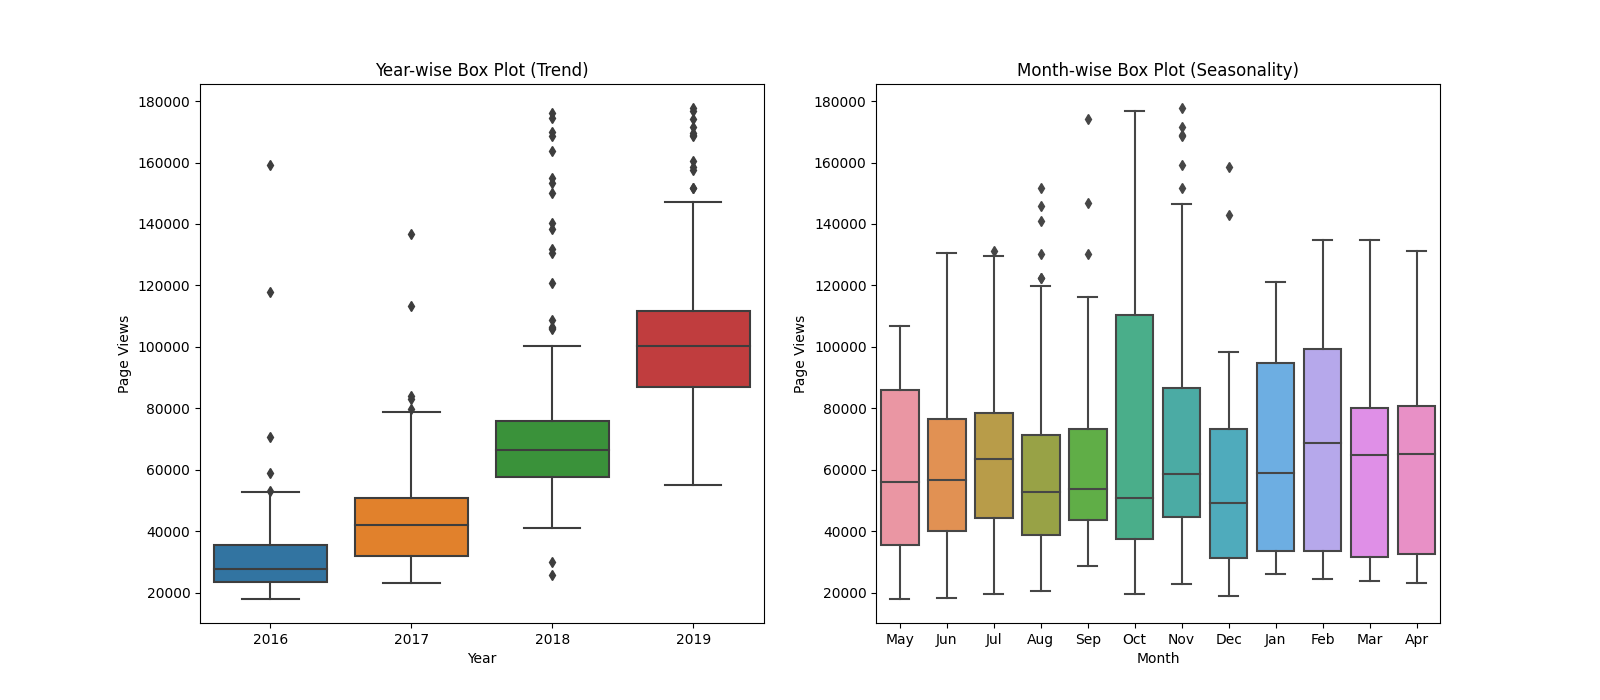
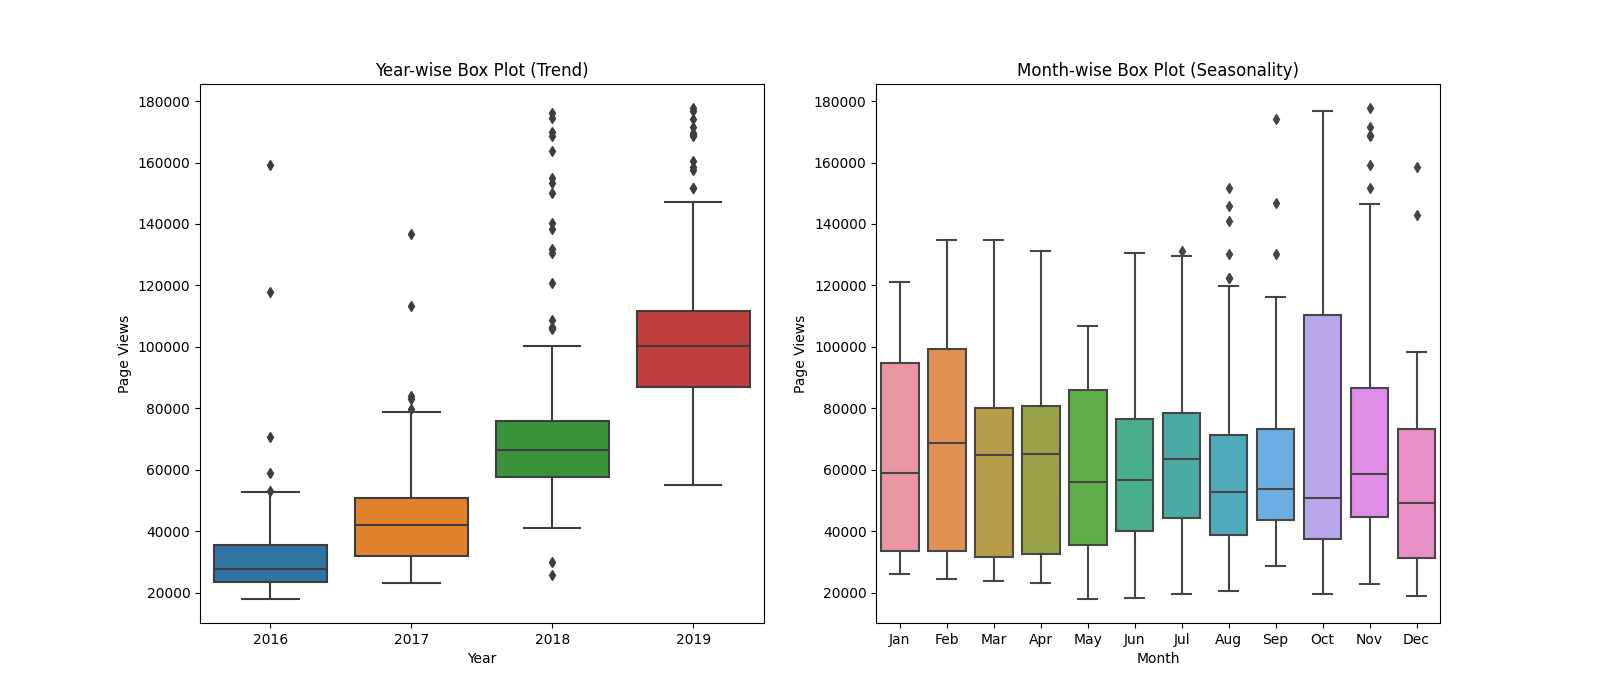
Modified second graph

diff --git a/time_series_visualizer.py b/time_series_visualizer.py
@@ -33,17 +33,16 @@ def draw_bar_plot():
     dfp = pd.pivot_table(data=df, index=df.index.year, values='value', columns='months')
     
     # Plot
-    ax = dfp.plot(kind='bar', figsize=(8,8))
-    ax.set_ylabel('Avarage Page Views')
-    ax.set_xlabel('Years')
-    ax.legend(title="Months")
-
+    fig = dfp.plot.bar(figsize=(8,8)).figure 
+    plt.ylabel('Average Page Views')
+    plt.xlabel('Years')
+    
     # Save image and return fig (don't change this part)
-    plt.savefig('bar_plot.png')
-    return plt
+    fig.savefig('bar_plot.png')
+    return fig
 
 def draw_box_plot():
-    # Prepare data for box plots (this part is done!)
+# Prepare data for box plots (this part is done!)
     df_box = df.copy()
     df_box.reset_index(inplace=True)
     
@@ -53,9 +52,10 @@ def draw_box_plot():
     # Draw box plots (using Seaborn)
     fig, axes = plt.subplots(nrows=1, ncols=2, figsize=(16,7))
     axes[0] = sns.boxplot( x=df_box.year, y=df_box['value'], ax=axes[0]).set(title='Year-wise Box Plot (Trend)', xlabel='Year', ylabel='Page Views')
-    axes[1] = sns.boxplot( x=df_box.month, y=df_box['value'], ax=axes[1]).set(title='Month-wise Box Plot (Seasonality)',xlabel='Month', ylabel='Page Views')
-    fig.show()
-    
+    axes[1] = sns.boxplot( x=df_box['date'].dt.month, y=df_box['value'], ax=axes[1]).set(title='Month-wise Box Plot (Seasonality)',xlabel='Month', ylabel='Page Views')
+    plt.xticks([0,1,2,3,4,5,6,7,8,9,10,11],['Jan','Feb','Mar','Apr','May', 'Jun', 'Jul', 'Aug', 'Sep', 'Oct', 'Nov', 'Dec'])
+
+    #fig.show()
     # Save image and return fig (don't change this part)
     fig.savefig('box_plot.png')
     return fig
